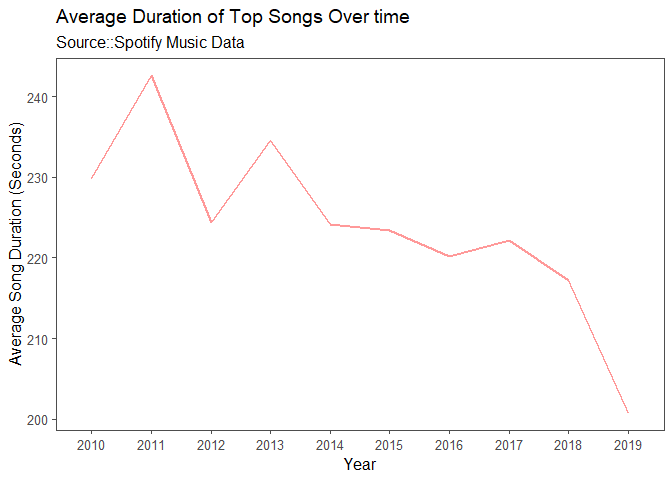
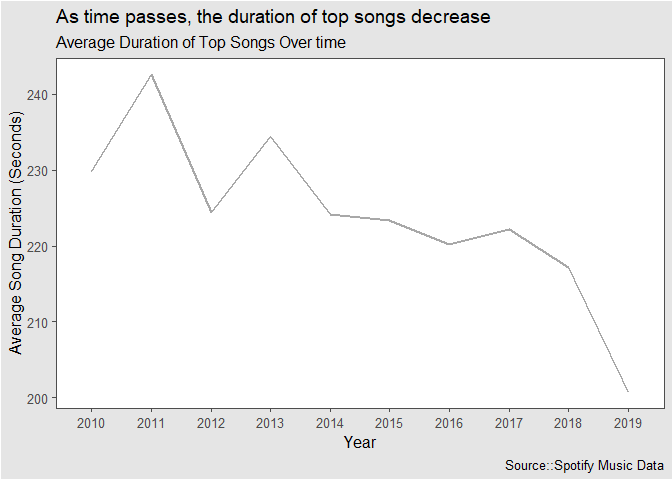
updates

diff --git a/spotify.md b/spotify.md
@@ -1,7 +1,7 @@
 Exploring Spotify Music Data
 ================
 By Mwangi George
-Last edited Nov, 19 2022
+Last edited Nov, 30 2022
 
 -   <a href="#amount-of-spoken-words" id="toc-amount-of-spoken-words">Amount
     of Spoken Words</a>
@@ -10,6 +10,8 @@ Last edited Nov, 19 2022
     -   <a href="#average-song-duration-over-time-year"
         id="toc-average-song-duration-over-time-year">Average song duration over
         time year.</a>
+-   <a href="#the-energy-of-songs" id="toc-the-energy-of-songs">The Energy
+    of songs</a>
 
 # Amount of Spoken Words
 
@@ -136,14 +138,9 @@ spotify %>%
   filter(song_loudness == -60)
 ```
 
-    ## # A tibble: 1 × 15
-    ##      id song_title   song_…¹ top_g…²  year beats…³ song_…⁴ dance…⁵ song_…⁶  live
-    ##   <dbl> <chr>        <chr>   <chr>   <dbl>   <dbl>   <dbl>   <dbl>   <dbl> <dbl>
-    ## 1   443 Million Yea… Adele   britis…  2016       0       0       0     -60     0
-    ## # … with 5 more variables: valence <dbl>, duration <dbl>, acousticness <dbl>,
-    ## #   speechiness <dbl>, popularity <dbl>, and abbreviated variable names
-    ## #   ¹song_artist, ²top_genre, ³beats_per_min, ⁴song_energy, ⁵danceability,
-    ## #   ⁶song_loudness
+|  id | song_title        | song_artist | top_genre    | year | beats_per_min | song_energy | danceability | song_loudness | live | valence | duration | acousticness | speechiness | popularity |
+|----:|:------------------|:------------|:-------------|-----:|--------------:|------------:|-------------:|--------------:|-----:|--------:|---------:|-------------:|------------:|-----------:|
+| 443 | Million Years Ago | Adele       | british soul | 2016 |             0 |           0 |            0 |           -60 |    0 |       0 |      227 |            0 |           0 |          0 |
 
 We learn that most of the values lie between -12 dB and -5 dB. There is
 one song, however, “Million Years Ago” by Adele, with -60 dB. Notice
@@ -200,17 +197,135 @@ spotify %>%
       )
   )+
   geom_line(
-    color = "red", 
+    color = "gray15", 
     size = 1,
     alpha = .4
     )+
   theme_few()+
   labs(
-    title = "Average Duration of Top Songs Over time",
+    title = "As time passes, the duration of top songs decrease",
     x = "Year",
     y = "Average Song Duration (Seconds)",
-    subtitle = "Source::Spotify Music Data"
+    subtitle = "Average Duration of Top Songs Over time",
+    caption = "Source::Spotify Music Data"
+  )+
+  theme(
+    plot.background = element_rect(fill = "gray90")
   )
 ```
 
 ![](spotify_files/figure-gfm/unnamed-chunk-12-1.png)<!-- -->
+
+From the analysis above, it is clear that duration of top songs keeps
+decreasing over time.
+
+# The Energy of songs
+
+To analysis this variable, let’s start by looking at the distribution
+for every year.
+
+``` r
+spotify %>% 
+  ggplot(
+    aes(
+      song_energy
+    )
+  )+
+  geom_histogram(binwidth = 10)+
+  facet_wrap(~year)
+```
+
+![](spotify_files/figure-gfm/unnamed-chunk-13-1.png)<!-- -->
+
+The energy of songs have left skewed distribution for most years. Most
+of the songs seem to have energy around 50 to 90. Lets investigate if
+this trend is reflected in the overall distribution for all years.
+
+``` r
+spotify %>% 
+  ggplot(
+    aes(
+      song_energy
+    )
+  )+
+  geom_histogram(binwidth = 10)
+```
+
+![](spotify_files/figure-gfm/unnamed-chunk-14-1.png)<!-- -->
+
+The same trend- left skewed distribution- is reflected in the overall
+distribution as shown above. We can use a box plot to detect outliers in
+this variable
+
+``` r
+spotify %>% 
+  ggplot(
+    aes(
+      x = " ", y = song_energy
+    )
+  )+
+  geom_boxplot()
+```
+
+![](spotify_files/figure-gfm/unnamed-chunk-15-1.png)<!-- -->
+
+There exists songs with low energy. We can take this analysis further to
+determine whether these songs with low energies are more popular than
+others
+
+``` r
+# correlation between songs energy and popularity 
+# for songs with low energies
+spotify %>% 
+  filter(song_energy < 30) %>% 
+  summarise(
+    correlation_coef_low_enr = cor(song_energy, popularity)
+    )
+```
+
+| correlation_coef_low_enr |
+|-------------------------:|
+|                0.8384985 |
+
+Surprisingly, songs with low energy seems to be associated with high
+popularity as shown by the strong positive correlation coefficient. Lets
+determine if this is the same case for songs with energy higher than 30.
+
+``` r
+# correlation between songs energy and popularity 
+# for songs with more energies
+spotify %>% 
+  filter(song_energy > 30) %>% 
+  summarise(
+    correlation_coef_high_enr = cor(song_energy, popularity)
+    )
+```
+
+| correlation_coef_high_enr |
+|--------------------------:|
+|                -0.1210913 |
+
+Songs with more energy are less popular as shown by the negative
+association. Holding other factors constant, it is safe to conclude that
+the most popular songs are those with low energy. Lets now identify
+which songs are these exactly.
+
+``` r
+spotify %>% 
+  filter(song_energy < 30) %>% 
+  select(song_title, song_artist, year)
+```
+
+| song_title                    | song_artist       | year |
+|:------------------------------|:------------------|-----:|
+| Clown                         | Emeli Sand<e9>    | 2013 |
+| All of Me                     | John Legend       | 2014 |
+| Say Something                 | A Great Big World | 2014 |
+| Not About Angels              | Birdy             | 2014 |
+| FourFiveSeconds               | Rihanna           | 2015 |
+| Mark My Words                 | Justin Bieber     | 2015 |
+| All I Ask                     | Adele             | 2016 |
+| Start                         | John Legend       | 2016 |
+| Beautiful Birds (feat. Birdy) | Passenger         | 2016 |
+| Million Years Ago             | Adele             | 2016 |
+| All I Ask                     | Adele             | 2017 |
